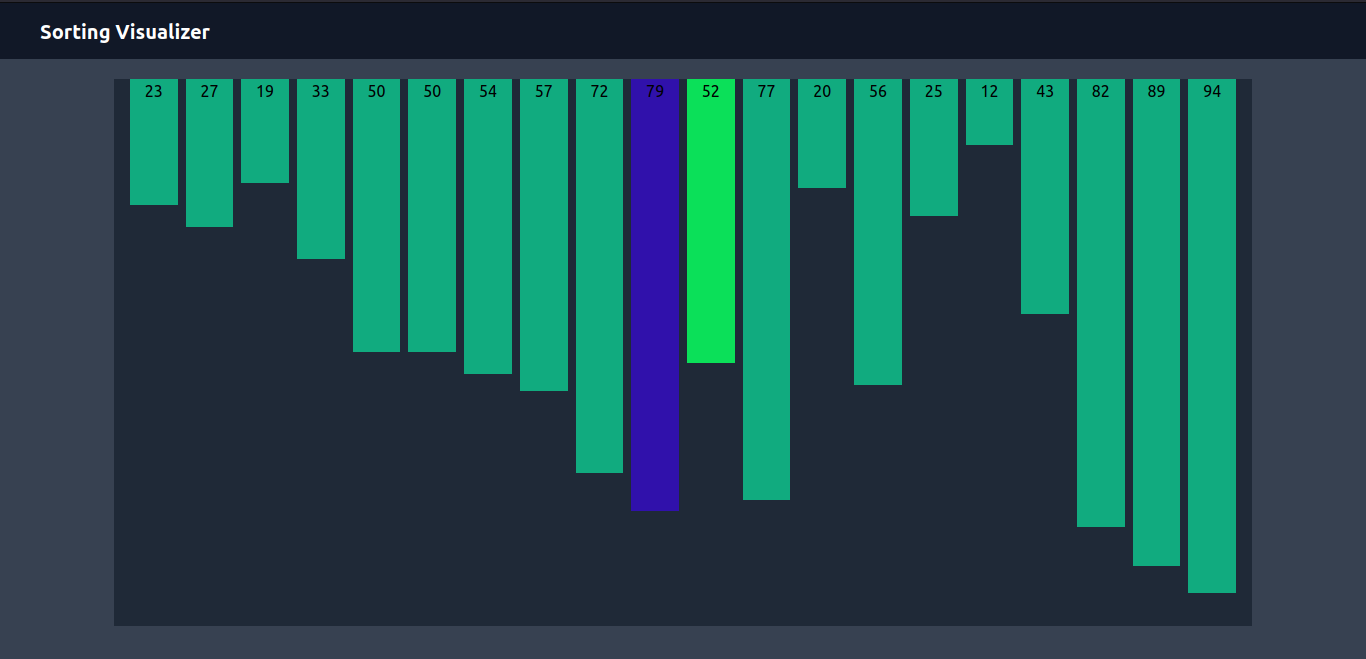
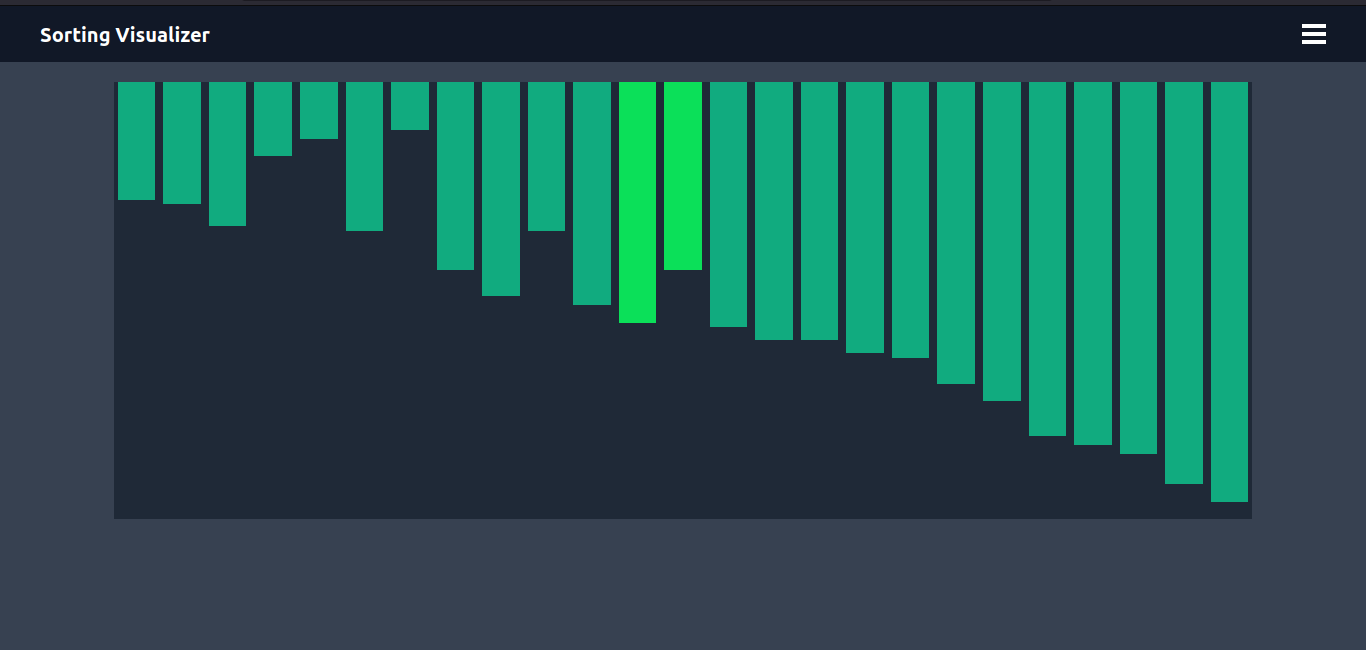
updated project screenshots and links

diff --git a/src/components/pages/Footer.jsx b/src/components/pages/Footer.jsx
@@ -1,6 +1,6 @@
 import React, { useRef, useEffect } from "react";
 
-import { gsap } from 'gsap';
+import { gsap } from "gsap";
 import { codepen, github, linkedin, twitter } from "../../utils/constants";
 
 function Footer() {
@@ -11,12 +11,12 @@ function Footer() {
 			y: "+=25",
 			opacity: 0,
 			scrollTrigger: {
-				trigger: footer.current
+				trigger: footer.current,
 			},
 			stagger: {
-				amount: 0.5
-			}
-		})
+				amount: 0.5,
+			},
+		});
 	}, []);
 
 	const handleLinkClick = () => {
@@ -24,37 +24,24 @@ function Footer() {
 	};
 
 	return (
-		<div ref={footer} className="text-center text-sm bg-foreground lg:px-32 md:px-20 px-5 font-cairo py-8 text-highlight relative">
+		<div
+			ref={footer}
+			className="text-center text-sm bg-foreground lg:px-32 md:px-20 px-5 font-cairo py-8 text-highlight relative"
+		>
 			<div className="w-full lg:hidden flex justify-center items-center gap-5 text-gray-400 mt-3 mb-5">
-				<a
-					href={linkedin}
-					target="_blank"
-					rel="noopener noreferrer"
-				>
+				<a href={linkedin} target="_blank" rel="noopener noreferrer">
 					<i
 						className="fab fa-linkedin-in text-3xl hover:text-highlight"
 						onClick={handleLinkClick}
 					></i>
 				</a>
-				<a
-					href={github}
-					target="_blank"
-					rel="noopener noreferrer"
-				>
+				<a href={github} target="_blank" rel="noopener noreferrer">
 					<i className="fab fa-github text-3xl hover:text-highlight"></i>
 				</a>
-				<a
-					href={twitter}
-					target="_blank"
-					rel="noopener noreferrer"
-				>
+				<a href={twitter} target="_blank" rel="noopener noreferrer">
 					<i className="fab fa-twitter text-3xl hover:text-highlight"></i>
 				</a>
-				<a
-					href={codepen}
-					target="_blank"
-					rel="noopener noreferrer"
-				>
+				<a href={codepen} target="_blank" rel="noopener noreferrer">
 					<i className="fab fa-codepen text-3xl hover:text-highlight"></i>
 				</a>
 			</div>
@@ -64,7 +51,12 @@ function Footer() {
 					<br />
 					with ReactJS, TailwindCSS and GSAP.
 				</p>
-				<a className="inline-block px-2 py-1 font-semibold border-2 border-highlight hover:bg-highlight hover:text-foreground" href="http://github.com" target="_blank" rel="noopener noreferrer">
+				<a
+					className="inline-block px-2 py-1 font-semibold border-2 border-highlight hover:bg-highlight hover:text-foreground"
+					href="https://github.com/anukuljoshi/portfolio"
+					target="_blank"
+					rel="noopener noreferrer"
+				>
 					<i className="fab fa-github"></i> Source Code
 				</a>
 			</div>

diff --git a/src/components/pages/Projects.jsx b/src/components/pages/Projects.jsx
@@ -7,8 +7,12 @@ import ProjectCardLeft from "../projects/ProjectCardLeft";
 import ProjectCardRight from "../projects/ProjectCardRight";
 
 import Sort from "../../images/projects/sort/main.png";
+import Full from "../../images/projects/sort/full.png";
 import Bubble from "../../images/projects/sort/bubble.png";
 import Merge from "../../images/projects/sort/merge.png";
+import Sorted from "../../images/projects/sort/sorted.png";
+import MobileMain from "../../images/projects/sort/mobile_main.png";
+import MobileSort from "../../images/projects/sort/mobile_sort.png";
 
 import DesktopLogin from "../../images/projects/social/desktop_login.png";
 import DesktopHome from "../../images/projects/social/desktop_home.png";
@@ -68,12 +72,20 @@ function Projects() {
 					"A web app built to visualize classic sorting algorithms.",
 					"Algorithms included are Bubble Sort, Insertion Sort, Selection Sort, Merge Sort, Quick Sort and Heap Sort.",
 				]}
-				photos={[Sort, Bubble, Merge]}
+				photos={[
+					Sort,
+					Full,
+					Bubble,
+					Merge,
+					Sorted,
+					MobileMain,
+					MobileSort,
+				]}
 				github={"https://github.com/anukuljoshi/sort-visualizer-v2"}
 				live={"https://anukuljoshi.github.io/sort-visualizer-v2/"}
 			></ProjectCardLeft>
 			<ProjectCardRight
-				name={"Social Club"}
+				name={"Twitter Clone"}
 				tech={["Django", "ReactJS"]}
 				info={[
 					"A social network website where users can create small text posts.",
@@ -89,7 +101,7 @@ function Projects() {
 					MobilePost,
 					MobileFollower,
 				]}
-				github={"https://github.com/anukuljoshi/sort-visualizer-v2"}
+				github={"https://github.com/anukuljoshi/django-social-club-dev"}
 				live={"http://anukuljoshi.pythonanywhere.com"}
 			></ProjectCardRight>
 			<h3

diff --git a/src/components/pages/Contact.jsx b/src/components/pages/Contact.jsx
@@ -33,12 +33,6 @@ function Contact() {
 						Get in touch
 					</h4>
 					<div className="text-text text-center lg:mb-5 mb-3">
-						{/* <p className="mb-2">
-							Lorem ipsum dolor, sit amet consectetur adipisicing elit. Tenetur veritatis vel optio beatae aspernatur dolores praesentium ex sed, iure labore voluptatibus modi molestiae adipisci consectetur.
-						</p>
-						<p className="">
-							Lorem ipsum dolor sit amet consectetur adipisicing elit. Alias harum, illo enim debitis veritatis temporibus dolorum facilis sapiente tempora. Lorem ipsum dolor, sit amet consectetur adipisicing elit. 
-						</p> */}
 						<p className="mb-2">
 							If you are interested in talking with me for a project collaboration, want to hire me or have a question for me,
 						</p>

diff --git a/src/components/elements/SocialLinks.jsx b/src/components/elements/SocialLinks.jsx
@@ -13,9 +13,9 @@ const SocialLinks = React.forwardRef((props, ref) => {
 	return (
 		<div
 			ref={ref}
-			className="invisible hidden z-10 fixed left-5 top-0  lg:flex flex-col justify-center items-center gap-5 text-gray-500"
+			className="invisible hidden z-10 fixed left-5 top-0 lg:flex flex-col justify-center items-center gap-5 text-gray-400"
 		>
-			<div className="h-28 w-0.5 bg-gray-500"></div>
+			<div className="h-28 w-0.5 bg-gray-400"></div>
 			<a
 				href={linkedin}
 				target="_blank"

diff --git a/src/utils/constants.js b/src/utils/constants.js
@@ -2,6 +2,7 @@ exports.linkedin = 'https://www.linkedin.com/in/anukuljoshi/';
 exports.github = 'https://github.com/anukuljoshi/';
 exports.twitter = 'https://twitter.com/aj_is_taken';
 exports.codepen = 'https://codepen.io/anukuljoshi/';
+exports.instagram = 'https://instagram.com'
 
 exports.tech = [
 	{
